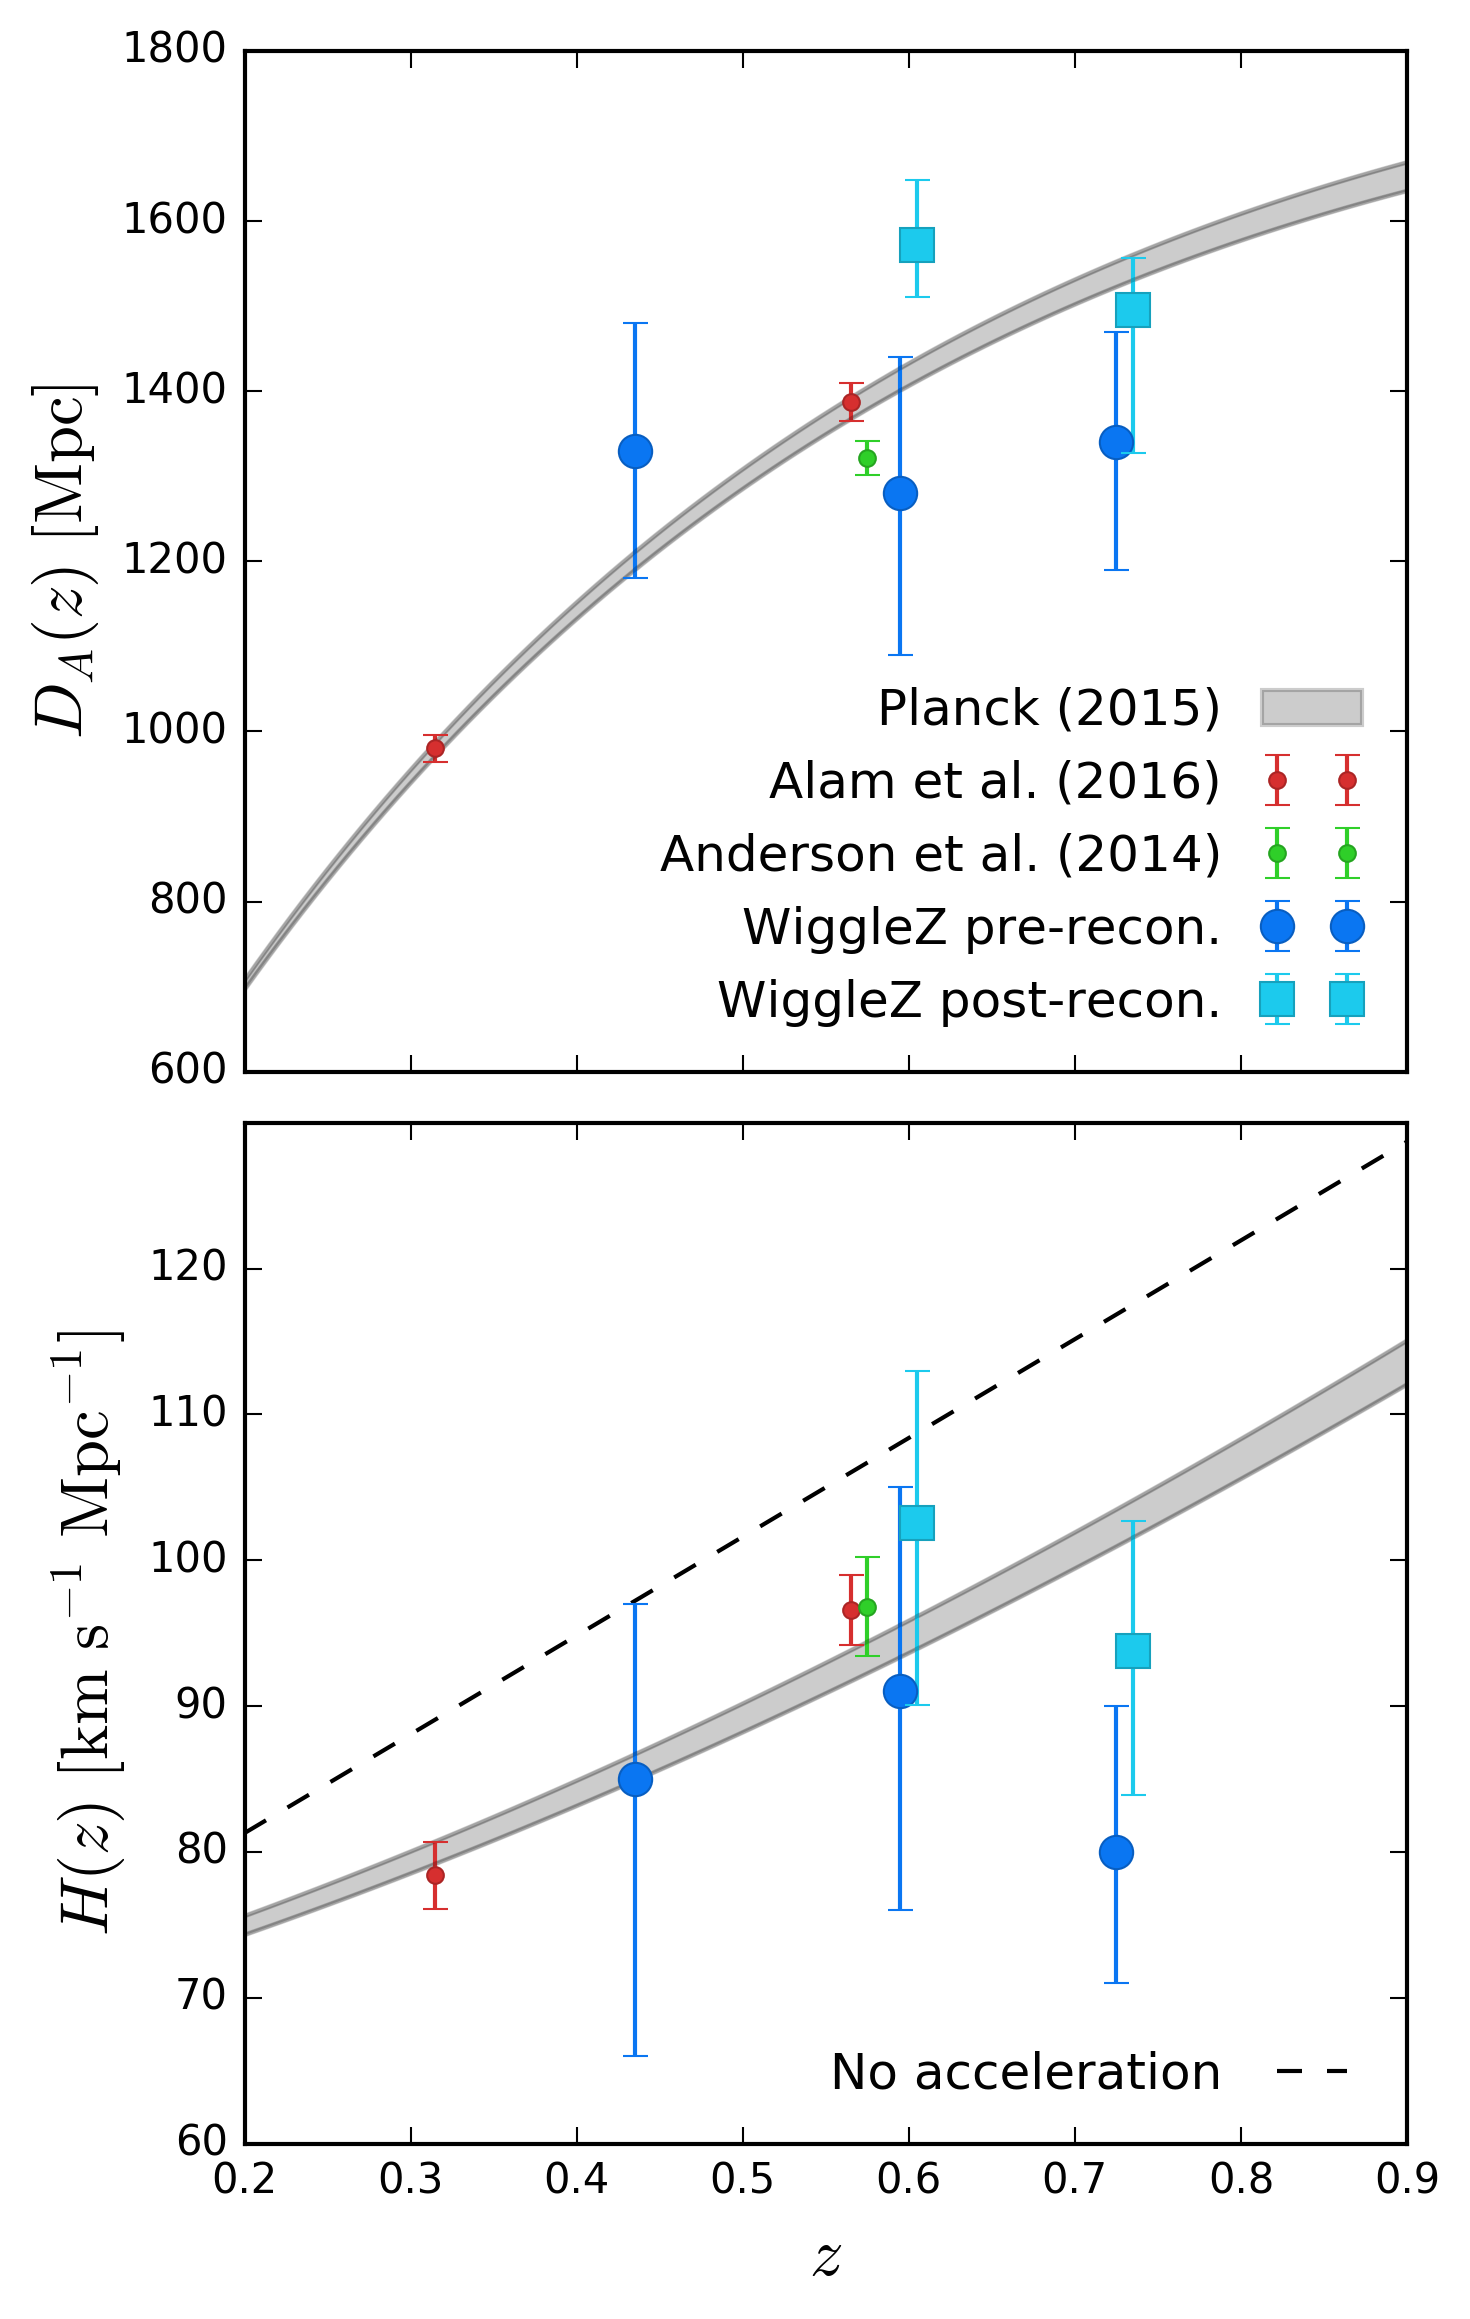
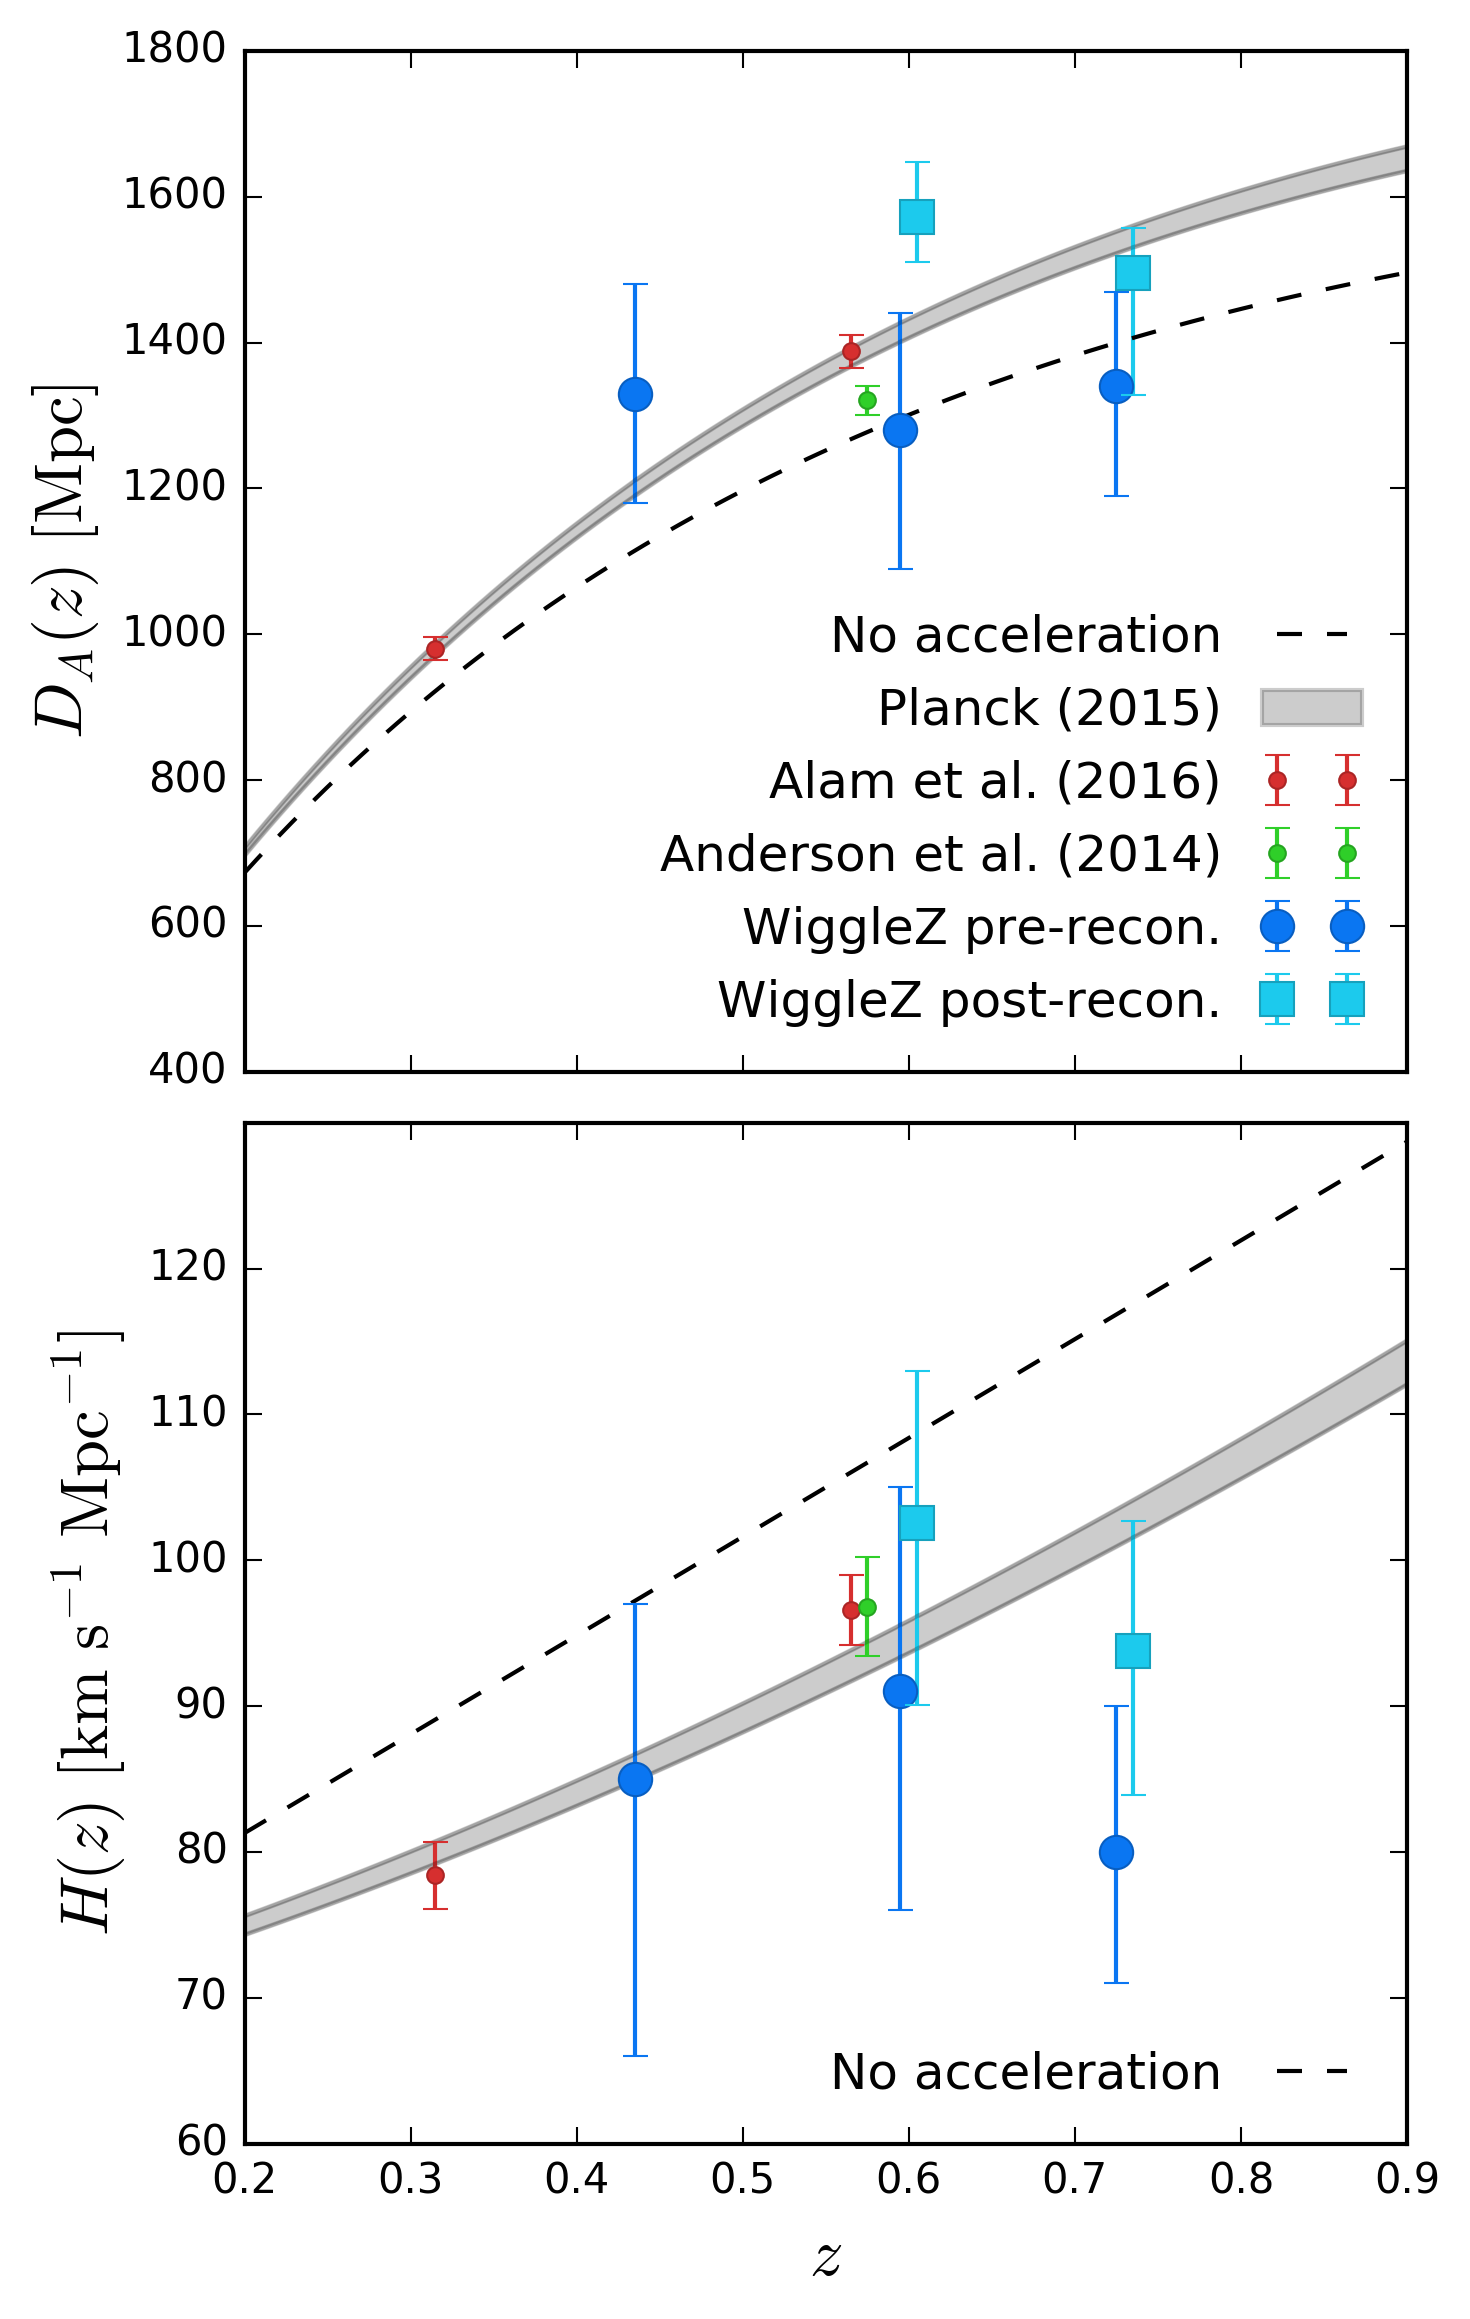
Also doing it for D_A

diff --git a/analysis/code/zFigures/karl.py b/analysis/code/zFigures/karl.py
@@ -106,7 +106,7 @@ bottom_h = bottom_cosmology.H(zs).value
 top_div = top_da / top_h
 bottom_div = bottom_da / bottom_h
 hconst = 67.74 * (1 + zs)
-
+daconst = 3e5 / (67.74 * (1 + zs)) * np.log(1 + zs)
 
 def clamp(val, minimum=0, maximum=255):  # pragma: no cover
     if val < minimum:
@@ -150,6 +150,7 @@ ax[1].plot(zs, bottom_h, color='k', alpha=0.2)
 ax[1].plot(zs, top_h, color='k', alpha=0.2)
 ax[1].fill_between(zs, bottom_h, top_h, color='k', alpha=0.2)
 
+ax[0].plot(zs, daconst, ls="--", label="No acceleration", color="k")
 ax[1].plot(zs, hconst, ls="--", label="No acceleration", color="k")
 # ax[2].plot(zs, top_div, color='k', alpha=0.2)
 # ax[2].plot(zs, bottom_div, color='k', alpha=0.2)
@@ -187,6 +188,8 @@ ax[1].set_ylabel(r"$H(z)\ {\rm[km}\ {\rm s}^{-1}\ {\rm Mpc}^{-1}{\rm]}$", fontsi
 
 ax[1].yaxis.get_major_ticks()[-1].set_visible(False)
 # ax[2].yaxis.get_major_ticks()[-1].set_visible(False)
+
+ax[0].set_ylim(400, 1800)
 fig.savefig("karl.pdf", transparent=True, dpi=300, bbox_inches="tight")
 fig.savefig("karl.png", transparent=True, dpi=300, bbox_inches="tight")
 
